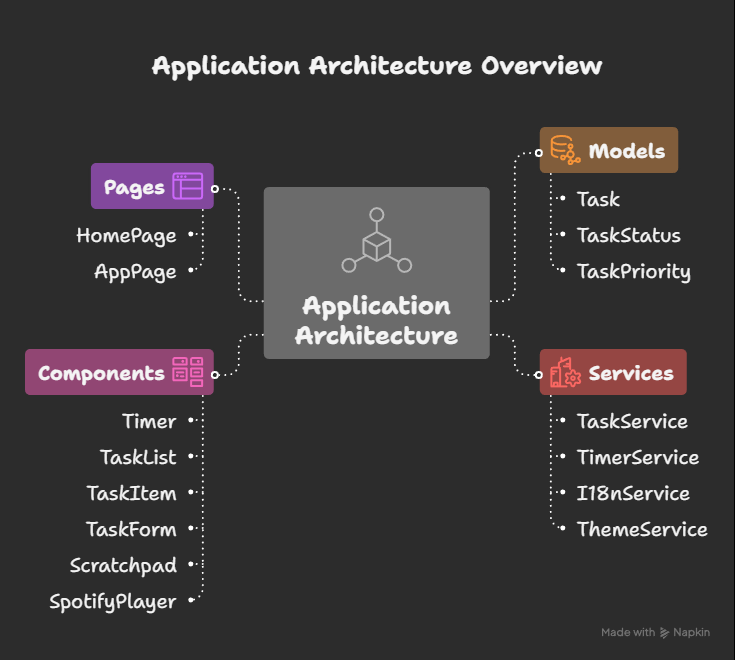
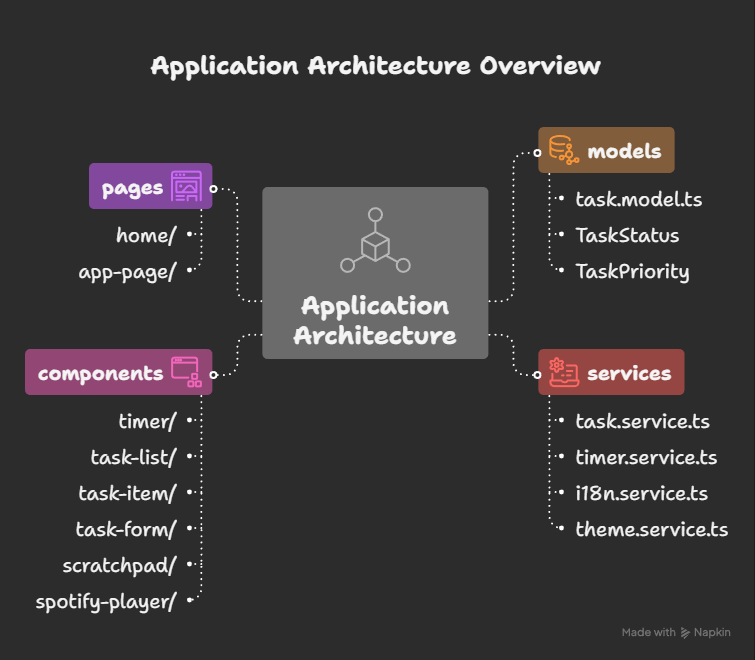
[UPD] update README.md

diff --git a/README.md b/README.md
@@ -1,39 +1,85 @@
 # FocusFlow
 
-A task management + Pomodoro focus timer app built as a frontend technical challenge.
+A task management + Pomodoro focus timer app built as a Frontend Developer technical challenge.
 
-## Overview
-
-FocusFlow combines a Kanban-style task board with a Pomodoro timer so you can manage what needs to get done and stay focused while doing it. Start a focus session directly from any task — the timer launches, the task moves to *in-progress*, and its name appears above the countdown ring so you always know what you're working on.
-
+> **Submission deadline:** April 17, 2025 — [github.com/osvaldocesargarcia/focus_flow_app](https://github.com/osvaldocesargarcia/focus_flow_app)
 
 ![IMG](doc/images/FocusFlow_visual_selection.png)
 
+---
+
+## Overview
+
+FocusFlow combines a full task management board with a Pomodoro timer so you can manage what needs to get done and stay focused while doing it. Start a focus session directly from any task — the timer launches, the task moves to *in-progress*, and its name appears above the countdown ring so you always know what you're working on.
+
+---
+
+## Mandatory Features Checklist
+
+| Requirement | Implementation |
+|---|---|
+| **Mobile-First** | Layout built mobile-first; bottom nav + slide-up panels on mobile, 3-column grid on desktop |
+| **CRUD** | Full create / edit / delete with title, description, priority and status |
+| **Filters** | Status filter tabs (All / To Do / In Progress / Done) + live search by title or description |
+| **Multilingual** | EN / PT toggle via a built-in `I18nService`; preference persisted to `localStorage` |
+| **Dark Mode** | CSS variable cascade with `.dark` class; theme persisted to `localStorage` |
+| **Persistence** | Tasks and scratchpad notes survive page refresh via `localStorage` |
+| **Angular 18+** | Built on Angular 21 with standalone components and Signals |
+| **Tailwind CSS** | Tailwind CSS v4 with `@tailwindcss/postcss` |
+
+---
+
 ## Features
 
-- **Task management** — Create, edit, and delete tasks with title, description, priority (high / medium / low), and status (todo / in-progress / done)
-- **Pomodoro timer** — Focus (25 min), short break (5 min), and long break (15 min) modes with an animated SVG progress ring
-- **Task → Timer link** — Play button on each task starts the Pomodoro immediately, sets that task as *in-progress*, and displays its name above the timer. Only one task can be in-progress at a time
+- **Task management** — Create, edit, and delete tasks with title, description, priority (high / medium / low) and status (todo / in-progress / done)
+- **Task search & filter** — Live search by title or description; filter by status via tab bar
+- **Pomodoro timer** — Focus (25 min), short break (5 min) and long break (15 min) modes with an animated SVG progress ring
+- **Task → Timer link** — Play button on any task starts the Pomodoro, sets that task as *in-progress*, and shows its name above the timer ring. Only one task can be active at a time
 - **Session tracking** — Dot indicators track completed focus sessions (4 per cycle)
-- **Scratchpad** — Quick inline notes panel for thoughts during a session
-- **Dark / light mode** — Toggles via a CSS variable cascade; dark-first design
-- **Bilingual UI** — English and Portuguese (PT) via a built-in i18n service
-- **Persistent state** — Tasks saved to `localStorage` across sessions
-- **Browser notifications** — Alerts when a focus or break session ends
+- **Spotify integration** — Embedded Spotify player for focus music; audio keeps playing even when the panel is closed on mobile
+- **Scratchpad** — Quick notes panel for capturing distracting thoughts mid-session
+- **Dark / light mode** — One-click toggle with CSS variable cascade; dark-first design
+- **Bilingual UI** — Full EN / PT translation via a custom `I18nService`
+- **Browser notifications** — Native alerts when a focus or break session ends
+- **Responsive layout** — Three-column desktop view (tasks | timer | music + notes); mobile view with sticky bottom navigation and slide-up panels
+
+---
+
+## Technical Decisions
+
+### Angular Signals (no NgRx, no RxJS)
+Signals (introduced in Angular 16, stable in 17+) are the current Angular-recommended primitive for reactive local state. They eliminate zone.js overhead, produce zero boilerplate compared to NgRx, and keep the data flow easy to follow. Every piece of shared state (`tasks`, `filter`, `timer mode`, `language`, `theme`) lives in a signal inside its corresponding service — components inject the service and read the signal directly in the template.
+
+### Standalone components
+Every component is standalone (`standalone: true`). No `NgModule` declarations, no barrel files needed just to wire up a module.
+
+### Tailwind CSS v4
+Tailwind v4 removes the `tailwind.config.js` file in favour of CSS-first configuration (`@theme` block in `styles.css`). Design tokens (colors, typography) live alongside the global styles — one source of truth, no JS config to maintain.
+
+### Custom i18n (no `@angular/localize`)
+`@angular/localize` is designed for build-time locale switching and compiled output per locale. For a runtime toggle between two languages a simple `computed<Translations>()` signal keyed on the active language is faster to build, zero dependency, and covers the requirement exactly.
+
+### `localStorage` for persistence
+No backend is in scope. `localStorage` is synchronous, universally available, and sufficient for task data at this scale. The `TaskService` hydrates on construction and writes on every mutation.
+
+---
 
 ## Stack
 
+| Layer | Choice | Reason |
+|---|---|---|
+| Framework | Angular 21 — standalone + Signals | Current best practice; zero-boilerplate reactivity |
+| Styling | Tailwind CSS v4 | CSS-first config; utility-first with design tokens |
+| Language | TypeScript (strict) | End-to-end type safety; `any` avoided throughout |
+| State | Angular Signals + `localStorage` | Lightweight, built-in, no extra dependencies |
+| i18n | Custom `I18nService` | Runtime toggle; two locales only — no build-time tool needed |
 
-| Layer     | Choice                                      |
-|-----------|---------------------------------------------|
-| Framework | Angular 21 (standalone components, signals) |
-| Styling   | Tailwind CSS v4 (`@tailwindcss/postcss`)    |
-| Language  | TypeScript (strict)                         |
-| State     | Angular signals + `localStorage`            |
+---
 
 ## Architecture
 
 ![IMG](doc/images/FocusFlow_architecture.png)
+
 ```
 src/app/
 ├── models/
@@ -41,19 +87,35 @@ src/app/
 ├── services/
 │   ├── task.service.ts        # CRUD, filters, localStorage persistence
 │   ├── timer.service.ts       # Pomodoro logic, active task tracking
-│   ├── i18n.service.ts        # EN / PT translations
-│   └── theme.service.ts       # Dark mode toggle
+│   ├── i18n.service.ts        # EN / PT translations, language signal
+│   └── theme.service.ts       # Dark / light mode toggle
 ├── components/
 │   ├── timer/                 # SVG ring timer + mode tabs + controls
-│   ├── task-list/             # Filter tabs, empty state, task grid
-│   ├── task-item/             # Task card with play/edit/delete actions
+│   ├── task-list/             # Filter tabs, search bar, task grid
+│   ├── task-item/             # Task card — play / edit / delete actions
 │   ├── task-form/             # Create / edit modal
 │   ├── scratchpad/            # Quick notes panel
-│   └── spotify-player/        # Embedded player widget
+│   └── spotify-player/        # Embedded Spotify widget
 └── pages/
     ├── home/                  # Landing / marketing page
-    └── app-page/              # Main two-column app layout
+    └── app-page/              # 3-column desktop layout + mobile bottom nav
 ```
+
+---
+
+## Design
+
+- **Visual style** — Glassmorphism: translucent cards with backdrop blur over a dark gradient base
+- **Color palette** — Purple (`#4278ff`) + Cyan (`#06b6d4`) accents; full light mode variant
+- **Typography** — Space Grotesk (headings) + Inter (body)
+- **Motion** — SVG ring progress with `cubic-bezier` easing; fade-up entry animations; pulse on active task; slide-up mobile panels
+- **Accessibility** — `aria-label`, `aria-pressed`, `aria-hidden` throughout; `:focus-visible` ring; reduced-motion media query respected
+
+![IMG](doc/images/screenshot1.png)
+![IMG](doc/images/screenshot3.png)
+![IMG](doc/images/screenshot4.png)
+
+---
 
 ## Getting started
 
@@ -67,19 +129,4 @@ ng serve
 
 # Production build
 ng build
-
-# Run tests
-ng test
 ```
-
-## Design notes
-
-- **Color palette** — Purple (`#7c3aed`) + Cyan (`#06b6d4`) accents on a dark base
-- **Typography** — Space Grotesk for headings, system sans for body
-- **Glassmorphism** — Cards use translucent backgrounds + backdrop blur
-- **Animations** — SVG ring progress with cubic-bezier easing, fade-up entry animations, ping pulse on active task button
-
-
-![IMG](doc/images/screenshot1.png)
-![IMG](doc/images/screenshot3.png)
-![IMG](doc/images/screenshot4.png)
